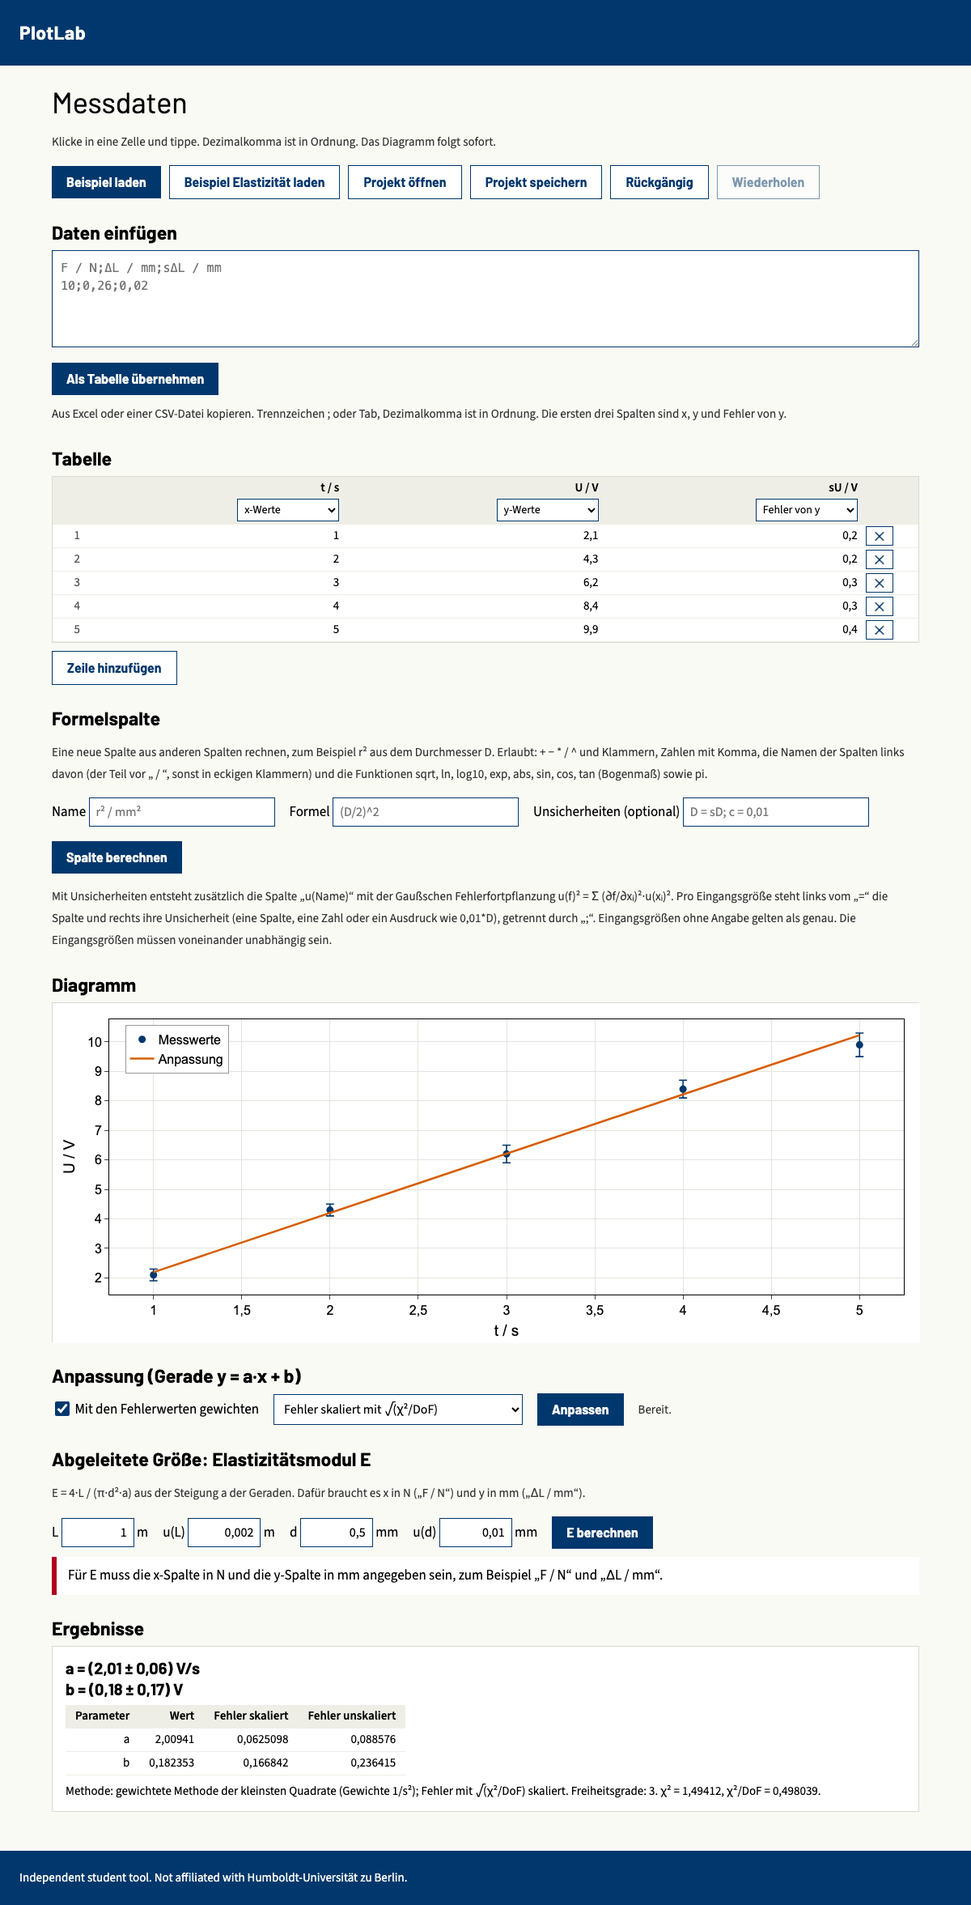
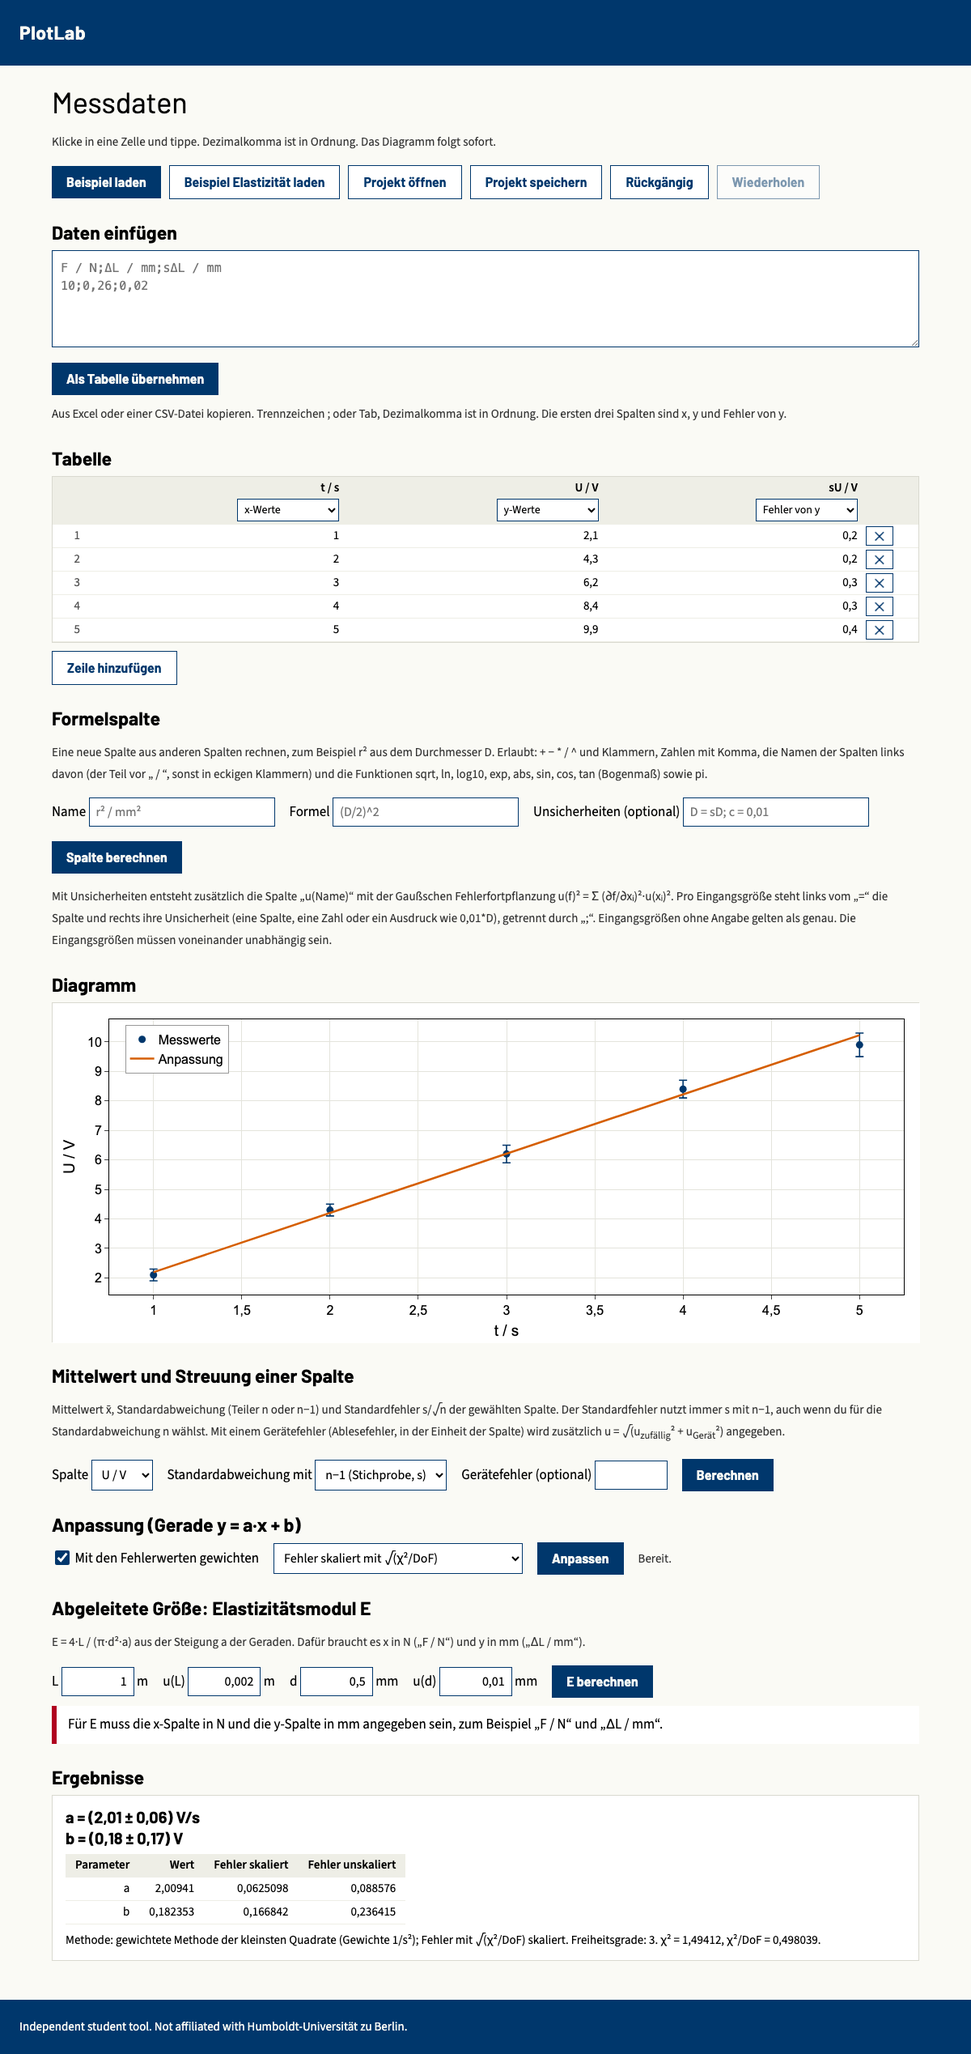
Phase 2 step 3: mean, spread and combined random and instrument error

diff --git a/app/index.html b/app/index.html
@@ -98,6 +98,15 @@
   <div id="fmsg" class="msg" role="alert" hidden></div>
   <h2>Diagramm</h2>
   <div id="plot"><div class="empty">Noch keine Daten.</div></div>
+  <h2>Mittelwert und Streuung einer Spalte</h2>
+  <p class="hint">Mittelwert x̄, Standardabweichung (Teiler n oder n−1) und Standardfehler s/√n der gewählten Spalte. Der Standardfehler nutzt immer s mit n−1, auch wenn du für die Standardabweichung n wählst. Mit einem Gerätefehler (Ablesefehler, in der Einheit der Spalte) wird zusätzlich u = √(u<sub>zufällig</sub>² + u<sub>Gerät</sub>²) angegeben.</p>
+  <div class="fitbar" id="stats">
+    <label>Spalte <select id="s_col" aria-label="Spalte für Mittelwert und Streuung"></select></label>
+    <label>Standardabweichung mit <select id="s_ddof" aria-label="Teiler der Standardabweichung"><option value="1">n−1 (Stichprobe, s)</option><option value="0">n (σ)</option></select></label>
+    <label>Gerätefehler (optional) <input class="num" id="s_instr" aria-label="Gerätefehler in der Einheit der Spalte" inputmode="decimal"></label>
+    <button class="btn" id="s_go" disabled>Berechnen</button>
+  </div>
+  <div id="statsmsg" class="msg" role="alert" hidden></div>
   <h2>Anpassung (Gerade y = a·x + b)</h2>
   <div class="fitbar">
     <label id="wlabel"><input type="checkbox" id="weighted"> Mit den Fehlerwerten gewichten</label>
@@ -127,6 +136,7 @@
 <script src="formula.js"></script>
 <script src="propagate.js"></script>
 <script src="derive.js"></script>
+<script src="stats.js"></script>
 <script>
 const $ = id => document.getElementById(id);
 const esc = s => String(s).replace(/[&<>"]/g, c => ({ "&": "&amp;", "<": "&lt;", ">": "&gt;", '"': "&quot;" }[c]));
@@ -187,7 +197,7 @@ function restoreAutosave() {
 function setProject(p) {
   proj = p; undo = []; redo = []; editKey = null; updateHist();
   $("msg").hidden = true;
-  $("saveproj").disabled = $("addrow").disabled = $("f_add").disabled = false; if (worker?.ready && !pending) $("fit").disabled = false;
+  $("saveproj").disabled = $("addrow").disabled = $("f_add").disabled = $("s_go").disabled = false; if (worker?.ready && !pending) $("fit").disabled = false;
   render();
 }
 function showMsg(t) { $("msg").textContent = t; $("msg").hidden = false; }
@@ -238,15 +248,21 @@ function derivedDetail(r) {
   return `<div class="detail" data-how>Rechnung: E = 4·L / (π·d²·a), u(E)/E = √((u(L)/L)² + (2·u(d)/d)² + (u(a)/a)²). ` +
     `Beiträge: u(L)/L = ${rel[0]}, 2·u(d)/d = ${rel[1]}, u(a)/a = ${rel[2]}. Fehler von a: ${un ? "unskaliert" : "skaliert bzw. aus der Streuung"}.</div>`;
 }
+const fmtPlain = new Intl.NumberFormat("de-DE", { maximumSignificantDigits: 3 });
+function statsDetail(r) {
+  const i = r.inputs || {}, n = fmt.format(Number(r.n));
+  return `<div class="detail" data-how>Spalte „${esc(i.col)}“, n = ${n} Werte. Standardabweichung mit Teiler ${i.ddof === 0 ? "n" : "n−1"}. Mittelwert ± Standardfehler s/√n (s mit n−1).` +
+    (i.instr != null ? ` Mit Gerätefehler ${fmt.format(Number(i.instr))}: u = √(u<sub>zufällig</sub>² + u<sub>Gerät</sub>²).` : "") + "</div>";
+}
 function renderResults() {
   if (!proj.results.length) { $("results").innerHTML = '<div class="empty">Noch keine Ergebnisse.</div>'; return; }
   $("results").innerHTML = proj.results.map(r => {
     const stale = isStale(proj, r);
     const lines = (r.params || []).map(q => {
       const u = uOf(q), t = huRound(q.value, u);
-      return `<div class="res">${esc(q.name)} = ${t ? `(${t[0]} ± ${t[1]})` : fmt.format(q.value)}${q.unit ? " " + esc(q.unit) : ""}</div>`;
+      return `<div class="res">${esc(q.name)} = ${t ? `(${t[0]} ± ${t[1]})` : q.plain ? fmtPlain.format(q.value) : fmt.format(q.value)}${q.unit ? " " + esc(q.unit) : ""}</div>`;
     }).join("");
-    return `<div class="result${stale ? " stale" : ""}">${stale ? '<div class="msg stalemsg">Die Daten wurden geändert. Dieses Ergebnis ist veraltet. Bitte neu anpassen.</div>' : ""}${lines}${r.kind === "fit" && r.dof ? fitDetail(r) : ""}${r.kind === "derived" ? derivedDetail(r) : ""}</div>`;
+    return `<div class="result${stale ? " stale" : ""}">${stale ? `<div class="msg stalemsg">Die Daten wurden geändert. Dieses Ergebnis ist veraltet. Bitte neu ${r.kind === "stats" ? "berechnen" : "anpassen"}.</div>` : ""}${lines}${r.kind === "fit" && r.dof ? fitDetail(r) : ""}${r.kind === "derived" ? derivedDetail(r) : ""}${r.kind === "stats" ? statsDetail(r) : ""}</div>`;
   }).join("");
 }
 // Weighting needs an error column; errors method only matters for a weighted fit.
@@ -256,7 +272,10 @@ function syncControls() {
   $("wlabel").classList.toggle("off", !has);
   $("wlabel").title = has ? "" : "Dafür braucht es eine Spalte mit der Rolle „Fehler von y“.";
   $("errm").value = proj.settings.errMethod || "scaled"; $("errm").disabled = !w;
-  $("fitmsg").hidden = true; $("derivemsg").hidden = true;
+  $("fitmsg").hidden = true; $("derivemsg").hidden = true; $("statsmsg").hidden = true;
+  const st = statsSettings(proj);
+  $("s_col").replaceChildren(...proj.columns.map(c => Object.assign(document.createElement("option"), { value: c.name, textContent: c.name })));
+  $("s_col").value = st.col; $("s_ddof").value = st.ddof; $("s_instr").value = st.instr == null ? "" : fmt.format(st.instr); $("s_instr").classList.remove("bad");
   for (const k of ["L", "uL", "d", "ud"]) { const v = (proj.settings.young || {})[k]; $("y_" + k).value = v == null ? "" : fmt.format(v); $("y_" + k).classList.remove("bad"); }
 }
 // Formula columns are recomputed from the data on every change; rows that cannot be calculated are named in the message.
@@ -412,6 +431,31 @@ $("derive").onclick = () => {
     kind: "derived", weighted: fit.weighted,
     params: [{ name: "E", unit: "GPa", value: s.E, uScaled: s.uE, ...(u ? { uUnscaled: u.uE } : {}) }],
     relScaled: s.rel, relUnscaled: (u || s).rel,
+  }));
+};
+// Typing the instrument error is one undo step; the two selects are one step each.
+$("s_instr").addEventListener("input", e => {
+  const v = parseCell(e.target.value);
+  e.target.classList.toggle("bad", v === undefined);
+  if (v === undefined) return;
+  if (editKey !== "stats.instr") { pushUndo(); editKey = "stats.instr"; }
+  proj.settings.stats = { ...statsSettings(proj), instr: v };
+  renderResults(); autosave();
+});
+$("s_instr").addEventListener("focusout", () => { editKey = null; });
+$("s_col").onchange = e => setSetting("stats", { ...statsSettings(proj), col: e.target.value });
+$("s_ddof").onchange = e => setSetting("stats", { ...statsSettings(proj), ddof: +e.target.value });
+function statsFailed(why) { $("statsmsg").textContent = why; $("statsmsg").hidden = false; }
+$("s_go").onclick = () => {
+  const st = statsSettings(proj), c = proj.columns.find(k => k.name === st.col), vals = c.values.filter(v => v !== null);
+  if (vals.length < 2) return statsFailed(`Die Spalte „${c.name}“ hat ${vals.length} Wert${vals.length === 1 ? "" : "e"}. Mittelwert und Streuung brauchen mindestens zwei Werte.`);
+  if ($("s_instr").classList.contains("bad")) return statsFailed("Der Gerätefehler ist keine Zahl.");
+  if (st.instr != null && !(st.instr >= 0)) return statsFailed("Der Gerätefehler darf nicht negativ sein.");
+  const d = describe(vals, st.ddof, st.instr), unit = (c.name.split("/")[1] || "").trim(), p = (name, value, u) => ({ name, unit, value, ...(u === undefined ? { plain: true } : { u }) });
+  change(() => addResult(proj, {
+    kind: "stats", inputs: st, n: d.n,
+    params: [p("Mittelwert x̄", d.mean, d.sem), p(st.ddof === 0 ? "Standardabweichung σ (Teiler n)" : "Standardabweichung s (Teiler n−1)", d.s), p("Standardfehler des Mittelwerts s/√n", d.sem),
+      ...(d.uTotal === null ? [] : [p("Mittelwert x̄ mit Gerätefehler", d.mean, d.uTotal)])],
   }));
 };
 $("weighted").onchange = e => setSetting("weighted", e.target.checked);

diff --git a/app/project.js b/app/project.js
@@ -12,20 +12,25 @@ function newProject(header, rows) {
 }
 
 // Fingerprint (FNV-1a) of the columns a result used: names, roles and values.
+const fnv = s => { let h = 2166136261; for (let i = 0; i < s.length; i++) h = Math.imul(h ^ s.charCodeAt(i), 16777619) >>> 0; return h.toString(16); };
 function fingerprint(p, usedRoles = ["x", "y", "yerr"]) {
-  const s = JSON.stringify(p.columns.filter(c => usedRoles.includes(c.role)).map(c => [c.name, c.role, c.values]));
-  let h = 2166136261;
-  for (let i = 0; i < s.length; i++) h = Math.imul(h ^ s.charCodeAt(i), 16777619) >>> 0;
-  return h.toString(16);
+  return fnv(JSON.stringify(p.columns.filter(c => usedRoles.includes(c.role)).map(c => [c.name, c.role, c.values])));
 }
+// Mean and spread of one chosen column: the settings are {col, ddof, instr}; the default column is y, else the first one.
+function statsSettings(p) {
+  const st = p.settings.stats || {}, y = p.columns.find(c => c.role === "y") || p.columns[0];
+  return { col: p.columns.some(c => c.name === st.col) ? st.col : y.name, ddof: st.ddof === 0 ? 0 : 1, instr: Number.isFinite(st.instr) ? st.instr : null };
+}
+// The result depends on the current settings and on that column's values.
+const statsKey = p => { const st = statsSettings(p); return fnv(JSON.stringify([st, p.columns.find(c => c.name === st.col).values])); };
 
 function addResult(p, result) {
   p.results = p.results.filter(r => r.kind !== result.kind);
-  p.results.push({ ...result, settings: { ...p.settings }, computedFrom: fingerprint(p) });
+  p.results.push({ ...result, settings: { ...p.settings }, computedFrom: result.kind === "stats" ? statsKey(p) : fingerprint(p) });
 }
 
 // Stale when the data changed, weighting was switched after the fit, or (derived results) the extra inputs changed.
-const isStale = (p, r) => r.computedFrom !== fingerprint(p) || (r.settings || {}).weighted !== p.settings.weighted ||
+const isStale = (p, r) => r.kind === "stats" ? r.computedFrom !== statsKey(p) : r.computedFrom !== fingerprint(p) || (r.settings || {}).weighted !== p.settings.weighted ||
   (r.kind === "derived" && JSON.stringify((r.settings || {}).young) !== JSON.stringify(p.settings.young));
 
 const save = p => JSON.stringify(p, null, 1);
@@ -43,4 +48,4 @@ function open(text) {
   return ok ? { project: p } : { error: "Das Projekt ist beschädigt: Spalten oder Werte fehlen oder sind keine Zahlen." };
 }
 
-if (typeof module !== "undefined") module.exports = { ROLES, newProject, fingerprint, addResult, isStale, save, open };
+if (typeof module !== "undefined") module.exports = { statsSettings, ROLES, newProject, fingerprint, addResult, isStale, save, open };

diff --git a/app/stats.js b/app/stats.js
@@ -1,0 +1,10 @@
+// Mean, standard deviation (divisor n or n-1), standard error and random + instrument error in quadrature (P1, P2).
+// ddof 1: s = √(Σ(x-x̄)²/(n-1)); ddof 0: σ = √(Σ(x-x̄)²/n). The standard error of the mean is always s(n-1)/√n:
+// the divisor chosen for the standard deviation does not change the uncertainty of the mean.
+// instr (optional): reading error of the instrument, same unit as the values; u_ges = √(sem² + instr²).
+function describe(values, ddof, instr) {
+  const n = values.length, mean = values.reduce((a, v) => a + v, 0) / n;
+  const ss = values.reduce((a, v) => a + (v - mean) ** 2, 0), sem = Math.sqrt(ss / (n - 1) / n);
+  return { n, mean, s: Math.sqrt(ss / (n - ddof)), sem, uTotal: instr == null ? null : Math.sqrt(sem * sem + instr * instr) };
+}
+if (typeof module !== "undefined") module.exports = { describe };

diff --git a/docs/progress.md b/docs/progress.md
@@ -9,7 +9,7 @@ Phase 1 is finished (see `docs/phase1-report.md`). Phase 2 **assumes P1 to P9** 
 
 - [x] 1. Formula columns, values only (P2, P5, P6): a new column defined by a formula over other columns (`+ - * / ^`, `sqrt`, `ln`, `log10`, `pi`, German column names, decimal comma). Recalculates when data changes, saved in the project, undo works. Test: r² and d·c columns from the P5 sheet against hand values; a formula with an unknown column name or a division by zero shows a clear message.
 - [x] 2. Error propagation for formula columns (P2, P5, P6): optional uncertainty column per formula result, Gaussian propagation from the uncertainties of the inputs (independent inputs). Test: product, quotient and square-root cases against hand-derived partial derivatives, including the Wheatstone bridge Rx = R1·R2/R3 case.
-- [ ] 3. Mean, standard deviation (n or n−1, chosen by the student), standard error, and random plus instrument error combined in quadrature (P2 volume measurement, P1). Test: a 10-value sample against hand values for both choices of n; result lines in HU format.
+- [x] 3. Mean, standard deviation (n or n−1, chosen by the student), standard error, and random plus instrument error combined in quadrature (P2 volume measurement, P1). Test: a 10-value sample against hand values for both choices of n; result lines in HU format.
 - [ ] 4. Weighted mean with uncertainty and an overlap check of several results (P2). Test: three volume results with different uncertainties against hand values (w = 1/u², mean, 1/√Σw); the overlap verdict (within k·u) matches the hand check.
 - [ ] 5. Frequency table (absolute, relative, cumulative) and histogram with the fitted normal curve (P1). Test: 30 hand-made readings, bin counts and normal-curve height against hand values; axis labels carry quantity and unit.
 - [ ] 6. Cumulative probability plot with the 16 % and 84 % read-off (P1). Test: values read off the hand-made cumulative table; the plot marks both levels.
@@ -77,3 +77,4 @@ Phase 1 is finished (see `docs/phase1-report.md`). Phase 2 **assumes P1 to P9** 
 - 2026-10-14, Phase 1 step 8 and Phase 1 gate: P3 Elasticity now runs start to finish in the real page: paste six German-format rows, press "Anpassen", enter L, u(L), d, u(d), press "E berechnen", save. Result: a = (0,02529 ± 0,00029) mm/N, E = (201 ± 8) GPa (the hand-calculated numbers). Measured by `tests/phase1-step8-timed.sh`: 9 user actions, 219 to 291 ms of machine time over four runs (Apple M5, headless Chromium, local server), plus 4.6 to 5.3 s once per visit for Python to load. The same task in Excel is about 40 actions, but that count is my estimate from the steps, not a measurement with a person. Edit, undo and save/reopen in a fresh browser profile keep everything (checked in the same test). Added a "Daten einfügen" box so a student can start with their own numbers (before, only examples or a saved project were possible), and the fit details no longer name `absolute_sigma`: they say "gewichtete Methode der kleinsten Quadrate (Gewichte 1/s²); Fehler mit √(χ²/DoF) skaliert" or "unskaliert, direkt aus den Fehlerwerten". Bad pastes (empty, letters) give clear messages. All 15 checks in `scripts/check.sh` pass; screenshot `evidence/phase1-step8-timed.png` judged OK. Wrote `docs/phase1-report.md`: gate passed except the R comparison and a human timing, both under "For Luis". PHASE is now 2; Phase 2 steps (assuming P1 to P9) written above.
 - 2026-10-14, Phase 2 step 1: A student can now add a formula column under the table ("Formelspalte"): a name such as "r² / mm²" and a formula such as (D/2)^2 or d*c or sqrt([r²])+0,5. Allowed: + - * / ^ (also ², ·, ×, −, ÷), brackets, numbers with decimal comma or point, names of columns to the left (the part before " / ", or the full name in [brackets]), the functions sqrt, ln, log10, exp, abs, sin, cos, tan, and pi. The column recalculates when data changes (edit, add row, undo, redo), is saved in the project and in autosave, can get a role (for example y) and then drives the plot, and can be removed. The formula text is never run as code: it is read by a small parser (`app/formula.js`, no eval). Tested by hand-worked values: P5-style Newton's rings, r² = (D/2)² = 1; 2,25; 4; 6,25 and after editing D to 2,2 r² = 1,21; polarimetry d·c = 0,2; 0,4; 0,6; 0,8; precedence (2^3^2 = 512, -2^2 = -4, 8/4/2 = 1); 13 attempts to smuggle code ("alert(1)", "constructor", "process.exit()" and so on) all give a parse message. Bad input gives clear German messages: unknown column "foo" (lists the usable names, nothing is added), unknown function, missing bracket, empty name or formula, duplicate name, division by zero (the cell stays empty and the message names the row, for example "Spalte „q / mm“, Zeile 1: Division durch 0. Der Wert bleibt leer."), root or logarithm of a negative number. A hand-edited project file with wrong stored numbers is recomputed on opening, and names or formulas with <script> or <img onerror> are shown as text and never run. Tests: `tests/phase2-step1-formula.sh` (parser in Node, then the real page in Chromium); all 16 checks in `scripts/check.sh` pass. Screenshots `evidence/phase2-step1-formula.png` and `-error.png` judged OK (header shows the formula, calculated cells shaded, decimal commas, error in red box). Not yet: no uncertainty for formula columns (step 2); a formula cannot be edited in place (remove and add again); no column names with superscripts as short names (use [r²]).
 - 2026-10-14, Phase 2 step 2: A student can now give a formula column uncertainties ("Unsicherheiten", e.g. `R1 = sR1; R2 = sR2; R3 = sR3`) and gets a second column "u(Rx)" with Gaussian error propagation; inputs not listed count as exact, the right-hand side may be a column, a number or an expression like 0,01*D. The u column updates with the data, is saved, undone and restored like other columns, and can be the y error of the plot (error bars follow). Slopes of the formula are taken numerically (central differences on the parsed formula, no eval), good to about 1e-9 relative. Tested (`tests/phase2-step2-propagate.sh`) against hand-derived partial derivatives, never the app: Wheatstone Rx = 50, u = 0,4330127; Rx = 180, u = 1,5130834 (also confirmed in a separate Python run with exact fractions); product, quotient, sqrt (4 ± 0,2 gives 0,05), ln, 2^x, sum 3-4-5 (0,5), x·x with one input used twice (0,6, not 0,424), constant and relative uncertainty; in the real page with undo, reload, save/open, plot error bars and a hand-edited project with script text in the new fields (nothing ran). Bad input (unknown column, missing "=", input not in formula, twice, duplicate name, negative uncertainty, division by zero) gives clear German messages. All 17 checks in `scripts/check.sh` pass. Screenshots `evidence/phase2-step2-propagate.png`, `-error.png` judged OK. Limits: inputs assumed independent (stated on the page; a formula on top of another formula column that shares inputs is the student's responsibility); the formula and the uncertainty text cannot be edited in place; new code in `app/propagate.js`.
+- 2026-10-14, Phase 2 step 3: A student can now pick a column under "Mittelwert und Streuung einer Spalte", choose the divisor n or n−1 for the standard deviation, optionally enter an instrument (reading) error, press "Berechnen" and read: Mittelwert x̄ = (value ± standard error) unit in HU format, the standard deviation s or σ, the standard error s/√n, and with an instrument error a second mean line with random and instrument error added in quadrature. The standard error always uses s with n−1 (stated on the page). Settings are in the project (undo, autosave, save/open work); changing the column, divisor, instrument error or any value of that column greys the result out as out of date ("Bitte neu berechnen"). Tested (`tests/phase2-step3-stats.sh`) with ten burette readings against hand values (exact fractions): mean 10,11 mL, s(n−1) = 0,0258199, σ(n) = 0,0244949, standard error 0,00816497, with 0,02 mL instrument error 0,0216025; on screen (10,110 ± 0,008) mL and (10,110 ± 0,022) mL, s = 0,0258 or σ = 0,0245 mL. Bad input (a column with one value, negative or non-numeric instrument error) gives clear German messages and no result; a hand-edited project with script text in the stats fields runs nothing. All 18 checks in `scripts/check.sh` pass. Screenshots `evidence/phase2-step3-stats.png`, `-error.png` judged OK. New code: `app/stats.js` (pure math); `app/project.js` got `statsSettings` and a stale rule for statistics. Limits: one statistics result at a time; s and the standard error are shown as plain numbers with 3 significant digits (they have no uncertainty of their own).

diff --git a/CHANGELOG.md b/CHANGELOG.md
@@ -2,6 +2,13 @@
 
 Written in plain language for people who do not read code. Newest entry on top.
 
+## 2026-10-14: Mean, standard deviation and standard error (P1, P2)
+
+- **What a student can now do:** choose a column under "Mittelwert und Streuung einer Spalte", pick n or n−1 for the standard deviation, optionally enter an instrument (reading) error and press "Berechnen". The page shows the mean as (value ± standard error) unit, the standard deviation, the standard error s/√n, and with an instrument error a second mean line where random and instrument error are added in quadrature, for example (10,110 ± 0,022) mL.
+- **Good to know:** the standard error always uses s with n−1, even when n is chosen for the standard deviation; the page says so. Changing the column, the choice, the instrument error or any value of that column marks the result as out of date.
+- **Messages:** a column with fewer than two values, or a negative or non-numeric instrument error, gives a plain German message.
+- **Tested:** `tests/phase2-step3-stats.sh`, ten burette readings against hand calculations (mean 10,11; s 0,0258 or 0,0245; standard error 0,00816; combined 0,0216), in the real page with undo, reload, save and reopen.
+
 ## 2026-10-14: Uncertainties for formula columns (P2, P5, P6)
 
 - **What a student can now do:** in "Formelspalte" fill the new field "Unsicherheiten", for example `R1 = sR1; R2 = sR2; R3 = sR3` for the Wheatstone bridge Rx = R1·R2/R3. Next to Rx the app adds a column "u(Rx)" with the Gaussian error propagation. Each input gets a column, a number or an expression such as 0,01*D as its uncertainty; inputs you leave out count as exact. The new column updates when data changes, is saved with the project, and can be set as "Fehler von y" so the plot shows the error bars.
